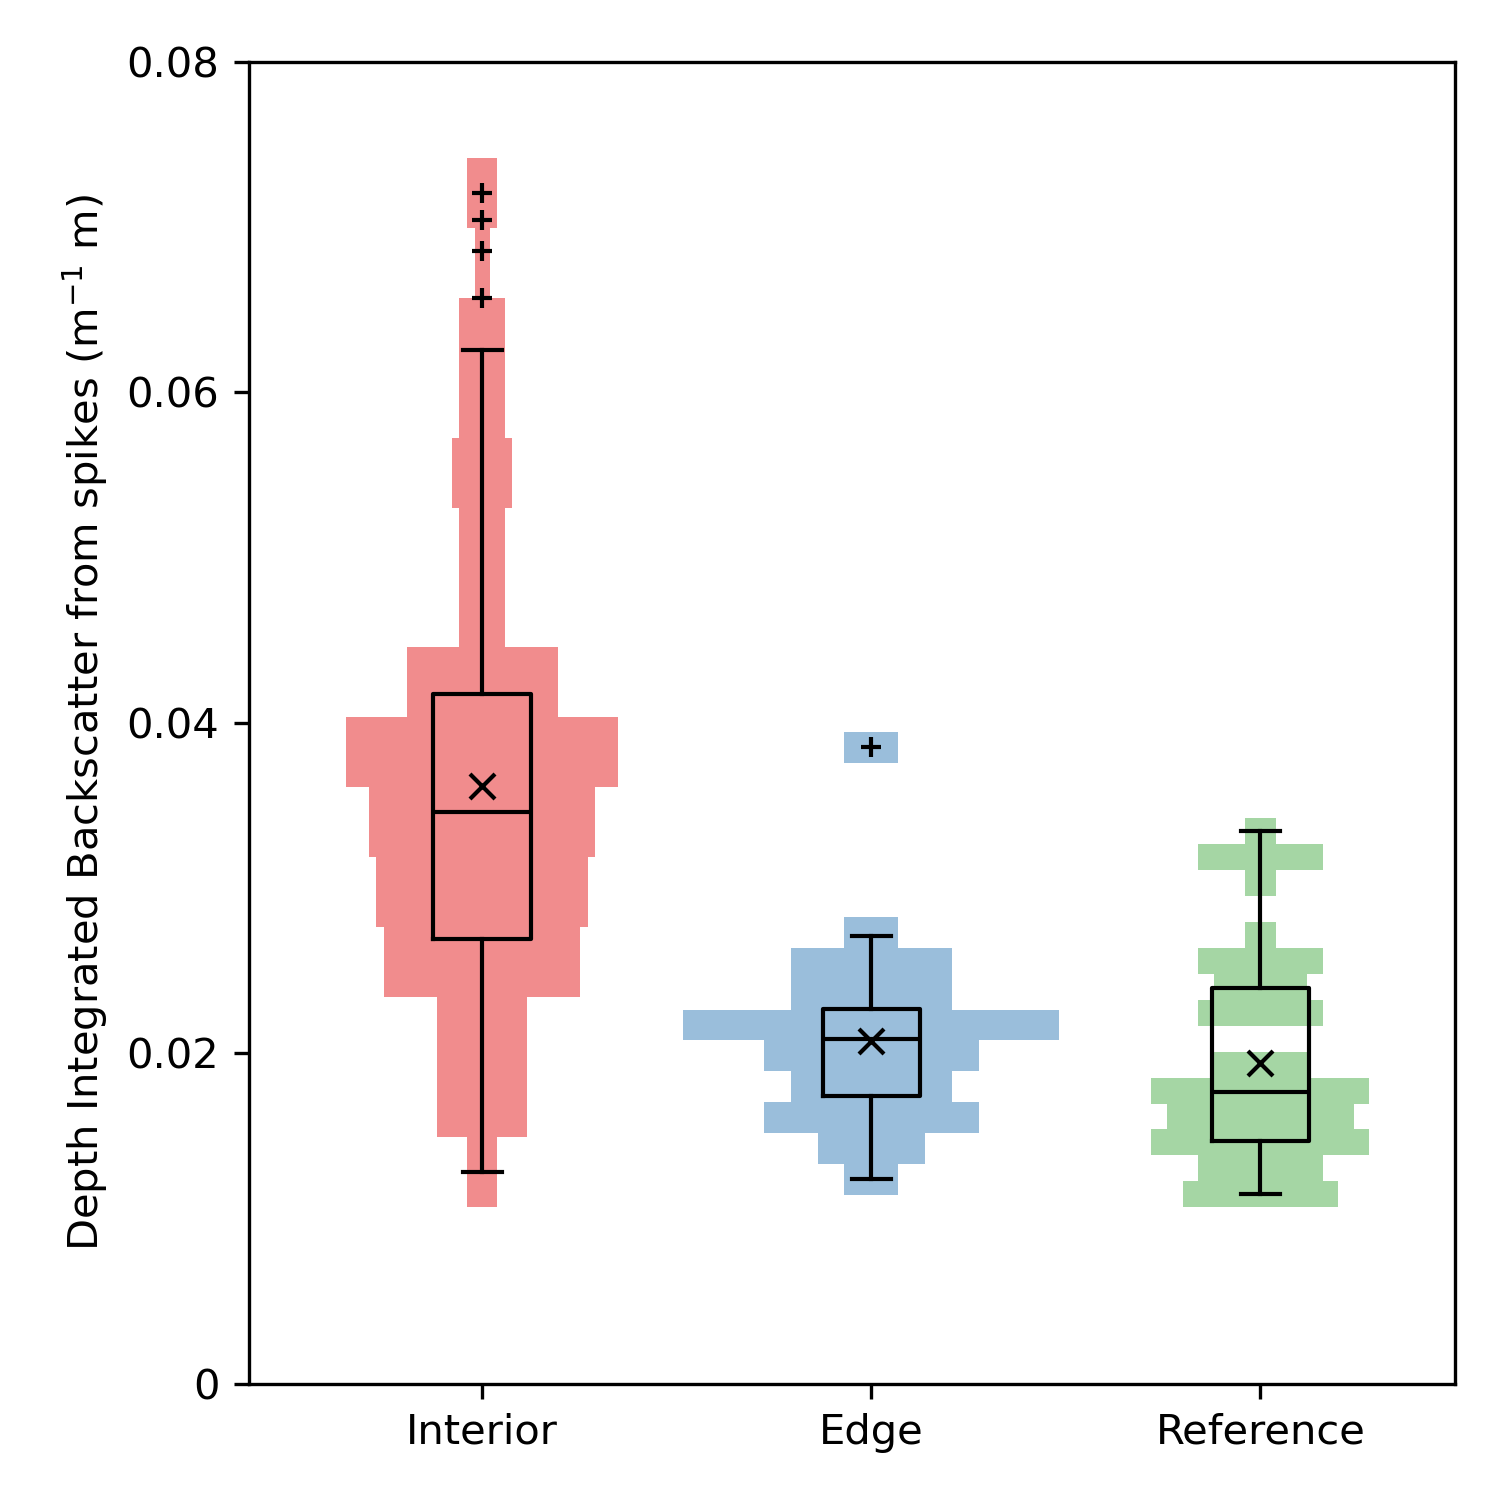
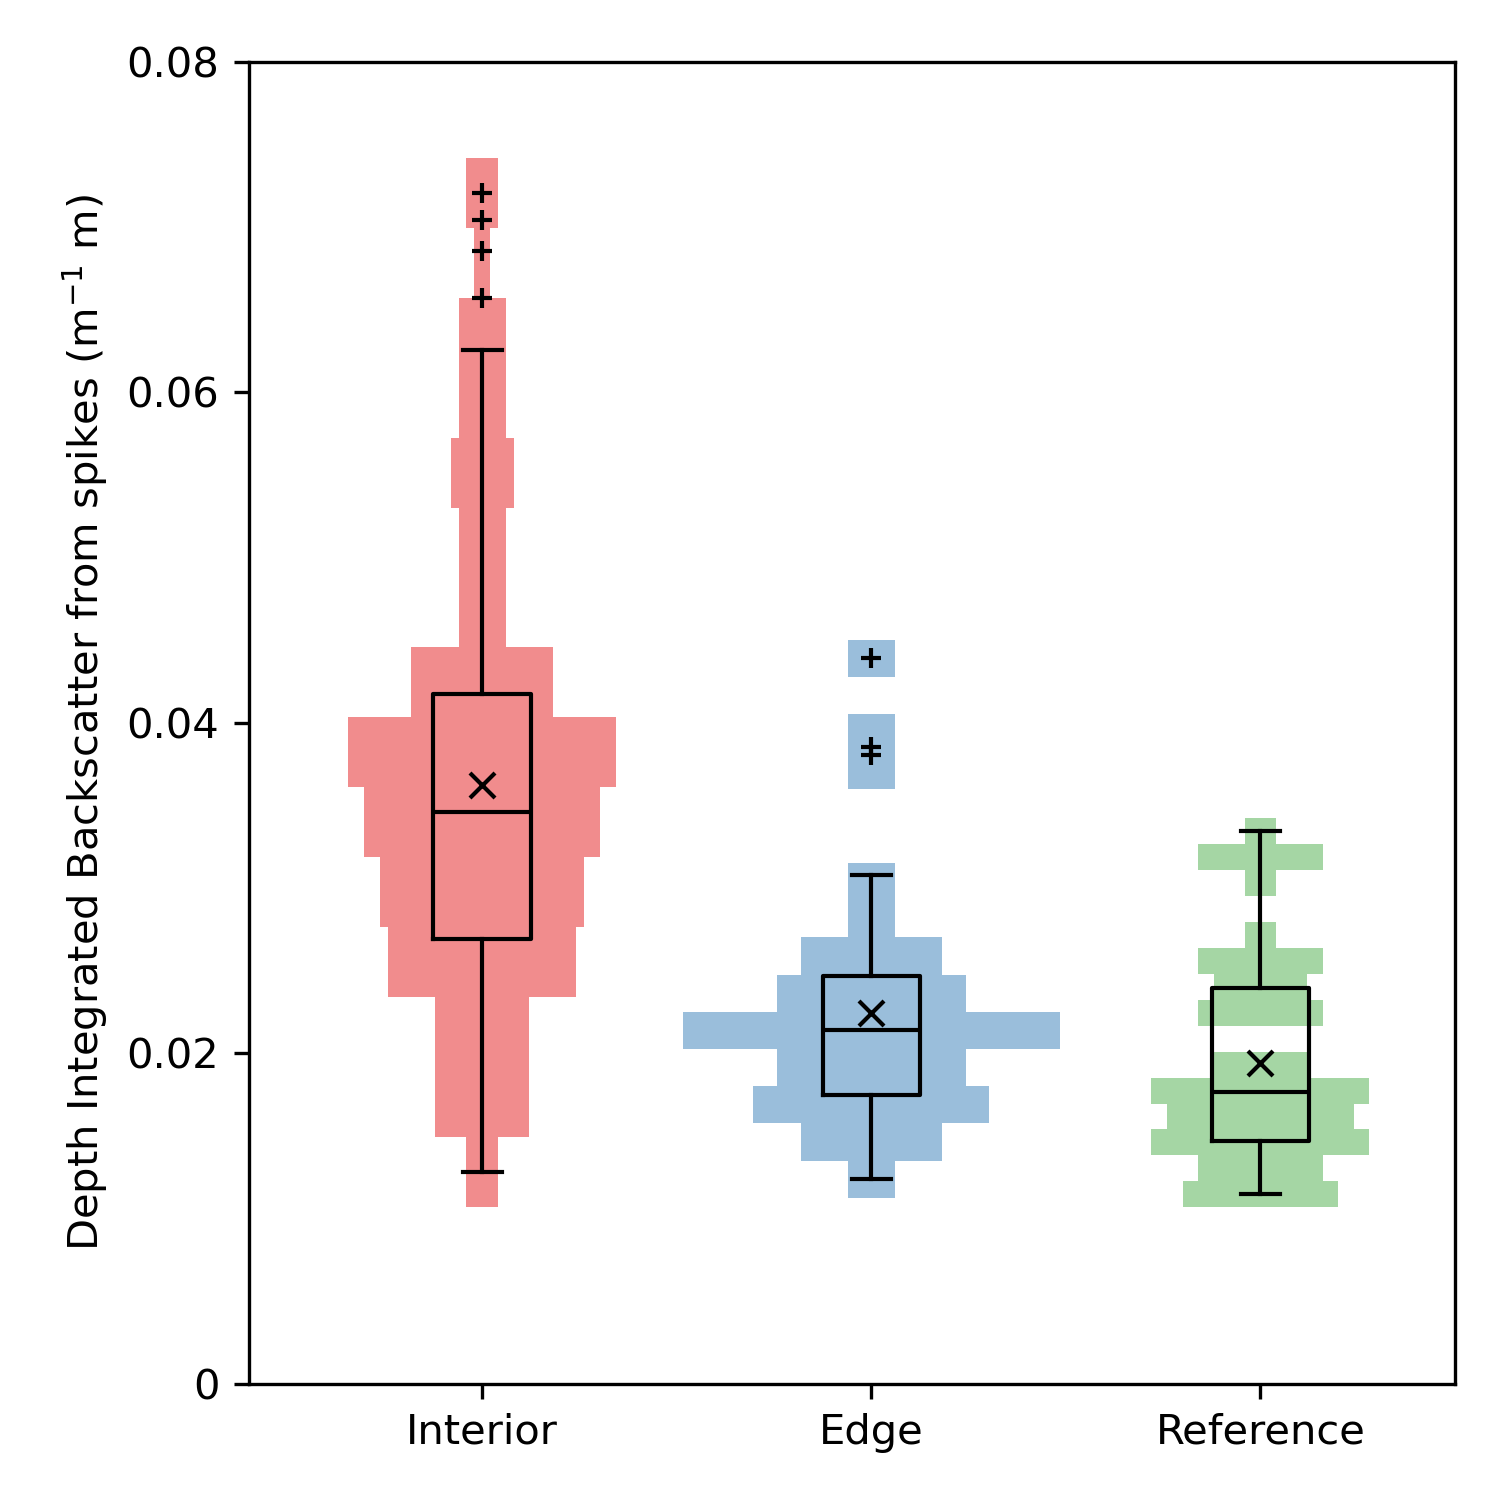
refactoriung

diff --git a/Louis/code/temperature_salinity_plot.py.py b/Louis/code/temperature_salinity_plot.py.py
@@ -1,48 +1,67 @@
 import matplotlib.pyplot as plt
+import matplotlib as mpl
 from setup import import_split_and_make_transects
-from plotting_functions import temp_salinity_plot
 from preprocessing.apply_preprocessing import scatter_and_chlorophyll_processing
+import seaborn as sns
 
 transects, profiles = import_split_and_make_transects(use_cache=True,
-                                                                use_downcasts=True,)
+                                                      use_downcasts=True,)
+
+def temp_salinity_plot(profiles:list, ax:plt.axes, c) :
+    for profile in profiles:
+        pcm = ax.scatter(profile.data["salinity_final"], profile.data["temperature_final"],
+                   c="#00000000", marker="o", edgecolor=c, linewidth=0.5, s=3)
+    return pcm  
 
 
-profiles.pop(576)
+#profiles.pop(576)
 profiles = [p for p in profiles if p.index != 614]
 
 profiles1 = [p for p in profiles if p.index >= 495 and p.index < 565]
 profiles2 = [p for p in profiles if p.index >= 565 and p.index < 631]
 
-interior1 = [p for p in profiles if p.index >= 495 and p.index < 550]
+interior1 = [p for p in profiles if p.index >= 495 and p.index < 546]#550
+exterior1 = [p for p in profiles if p.index >= 548 and p.index < 565]
+exterior2 = [p for p in profiles if p.index >= 565 and p.index < 574]#580
 interior2 = [p for p in profiles if p.index >= 580 and p.index < 631]
-exterior1 = [p for p in profiles if p.index >= 550 and p.index < 565]
-exterior2 = [p for p in profiles if p.index >= 565 and p.index < 580]
+
+#profiles 547 and 548 and 574-579 are excluded as they do not fit either water mass
+p1 = [p for p in profiles if p.index == 547][0]
+print(p1.start_time, p1.end_time)
+
+
+
 exterior = exterior1 + exterior2
 interior = interior1 + interior2
 
 ref = [p for p in profiles if p.index >= 710 and p.index < 760]
 
 
-#all transect temp/salinity plot:
-fig = plt.figure(figsize=(12, 4))
-
-ax1 = fig.add_axes([0.1, 0.22, 0.25, 0.7])
-ax2 = fig.add_axes([0.4, 0.22, 0.25, 0.7], sharey=ax1)
-ax3 = fig.add_axes([0.7, 0.22, 0.25, 0.7], sharey=ax1)
-
-axs = [ax1, ax2, ax3]
-
-for transect, ax in zip([interior, exterior, ref], axs):
-    #ax.set_title(transect.name)
-    pcm = temp_salinity_plot(transect, ax)
-
-ax1.set_title("Interior")
-ax2.set_title("Edge")
-ax3.set_title("Reference")
+fig = plt.figure(figsize=(4, 4))
+ax1 = fig.add_axes([0.2, 0.15, 0.75, 0.75])
 
 
 
-cbar_ax = fig.add_axes([0.15, 0.11, 0.7, 0.02])
-plt.colorbar(pcm, cax=cbar_ax, orientation="horizontal")
-cbar_ax.set_xlabel("Depth (m)")
-plt.savefig("Louis/outputs/TS_all_transects.png", dpi=300)
+colors = sns.palettes.color_palette("Set1")[:2]
+
+
+p1 = temp_salinity_plot(interior, ax1, colors[0])
+p2 = temp_salinity_plot(exterior, ax1, colors[1])
+
+xlims, ylims = ax1.get_xlim(), ax1.get_ylim()
+
+ax1.scatter([0], [0], c="#00000000", marker="o", edgecolor=colors[0], linewidth=1, s=20, label="Interior")
+ax1.scatter([0], [0], c="#00000000", marker="o", edgecolor=colors[1], linewidth=1, s=20, label="Edge")
+
+ax1.set_xlim(xlims)
+ax1.set_ylim(ylims)
+
+ax1.legend()
+
+
+ax1.set_xlabel("Salinity / g/kg")
+ax1.set_ylabel("Temperature / °C")
+
+
+
+plt.savefig("Louis/figures/TS_all_transects.png", dpi=300)

diff --git a/Louis/code/FigureI.py b/Louis/code/FigureI.py
@@ -35,9 +35,9 @@ profiles1 = [p for p in profiles if p.index >= 495 and p.index < 565]
 profiles2 = [p for p in profiles if p.index >= 565 and p.index < 631]
 
 interior1 = [p for p in profiles if p.index >= 495 and p.index < 550]
-interior2 = [p for p in profiles if p.index >= 580 and p.index < 631]
 exterior1 = [p for p in profiles if p.index >= 550 and p.index < 565]
 exterior2 = [p for p in profiles if p.index >= 565 and p.index < 580]
+interior2 = [p for p in profiles if p.index >= 580 and p.index < 631]
 exterior = exterior1 + exterior2
 interior = interior1 + interior2
 
@@ -132,11 +132,11 @@ ax2.set_xticks([17968, 17970, 17972], ["13/3/19", "15/3/19", "17/3/19"])
 ax2b.set_xticks([17973, 17975, 17977], ["18/3/19", "20/3/19", "22/3/19"])
 
 
-ax.vlines([17971.3], -800, 0, color="white", linestyle="--", linewidth=1)
+ax.vlines([17971.1], -800, 0, color="white", linestyle="--", linewidth=1)
 axb.vlines([17974.03], -800, 0, color="white", linestyle="--", linewidth=1)
-ax1.vlines([17971.3], -800, 0, color="white", linestyle="--", linewidth=1)
+ax1.vlines([17971.1], -800, 0, color="white", linestyle="--", linewidth=1)
 ax1b.vlines([17974.03], -800, 0, color="white", linestyle="--", linewidth=1)
-ax2.vlines([17971.3], -6000, 0, color="black", linestyle="--", linewidth=1)
+ax2.vlines([17971.1], -6000, 0, color="black", linestyle="--", linewidth=1)
 ax2b.vlines([17974.03], -6000, 0, color="black", linestyle="--", linewidth=1)
 
 ax2.grid(alpha=0.5)

diff --git a/Louis/code/spikes2.py b/Louis/code/spikes2.py
@@ -26,9 +26,9 @@ profiles.pop(538)
 profiles = [p for p in profiles if p.index != 614]
 profiles1 = [p for p in profiles if p.index >= 495 and p.index < 565]
 profiles2 = [p for p in profiles if p.index >= 565 and p.index < 631]
-interior1 = [p for p in profiles if p.index >= 495 and p.index < 550]
+interior1 = [p for p in profiles if p.index >= 495 and p.index < 546]
 interior2 = [p for p in profiles if p.index >= 580 and p.index < 631]
-exterior1 = [p for p in profiles if p.index >= 550 and p.index < 565]
+exterior1 = [p for p in profiles if p.index >= 546 and p.index < 565]
 exterior2 = [p for p in profiles if p.index >= 565 and p.index < 580]
 exterior = exterior1 + exterior2
 interior = interior1 + interior2

diff --git a/Louis/code/depth_integration_box_plot.py b/Louis/code/depth_integration_box_plot.py
@@ -20,8 +20,8 @@ profiles = [p for p in profiles if p.index != 614]
 profiles1 = [p for p in profiles if p.index >= 495 and p.index < 565]
 profiles2 = [p for p in profiles if p.index >= 565 and p.index < 631]
 
-interior1 = [p for p in profiles if p.index >= 495 and p.index < 550]
-exterior1 = [p for p in profiles if p.index >= 550 and p.index < 565]
+interior1 = [p for p in profiles if p.index >= 495 and p.index < 546]
+exterior1 = [p for p in profiles if p.index >= 546 and p.index < 565]
 exterior2 = [p for p in profiles if p.index >= 565 and p.index < 580]
 interior2 = [p for p in profiles if p.index >= 580 and p.index < 631]
 exterior = exterior1 + exterior2

diff --git a/Louis/code/FigureN.py b/Louis/code/FigureN.py
@@ -38,8 +38,8 @@ def map_plot(profiles:list[Profile], ax, basemap=None) -> None:
 
 
     normal_points = lineplots(profiles, "#000000FF", 3, 0, 495)
-    t1_interior = lineplots(profiles, "#F00000FF", 3, 495, 550)
-    t1_exterior = lineplots(profiles, "#0050F0FF", 3, 550, 565)
+    t1_interior = lineplots(profiles, "#F00000FF", 3, 495, 546)
+    t1_exterior = lineplots(profiles, "#0050F0FF", 3, 546, 565)
     t2_exterior = lineplots(profiles, "#43AFF3FF", 3, 565, 580)
     t2_interior = lineplots(profiles, "#F88737FF", 3, 580, 631)
     normal_points = lineplots(profiles, "#000000FF", 3, 631, ref_start)
